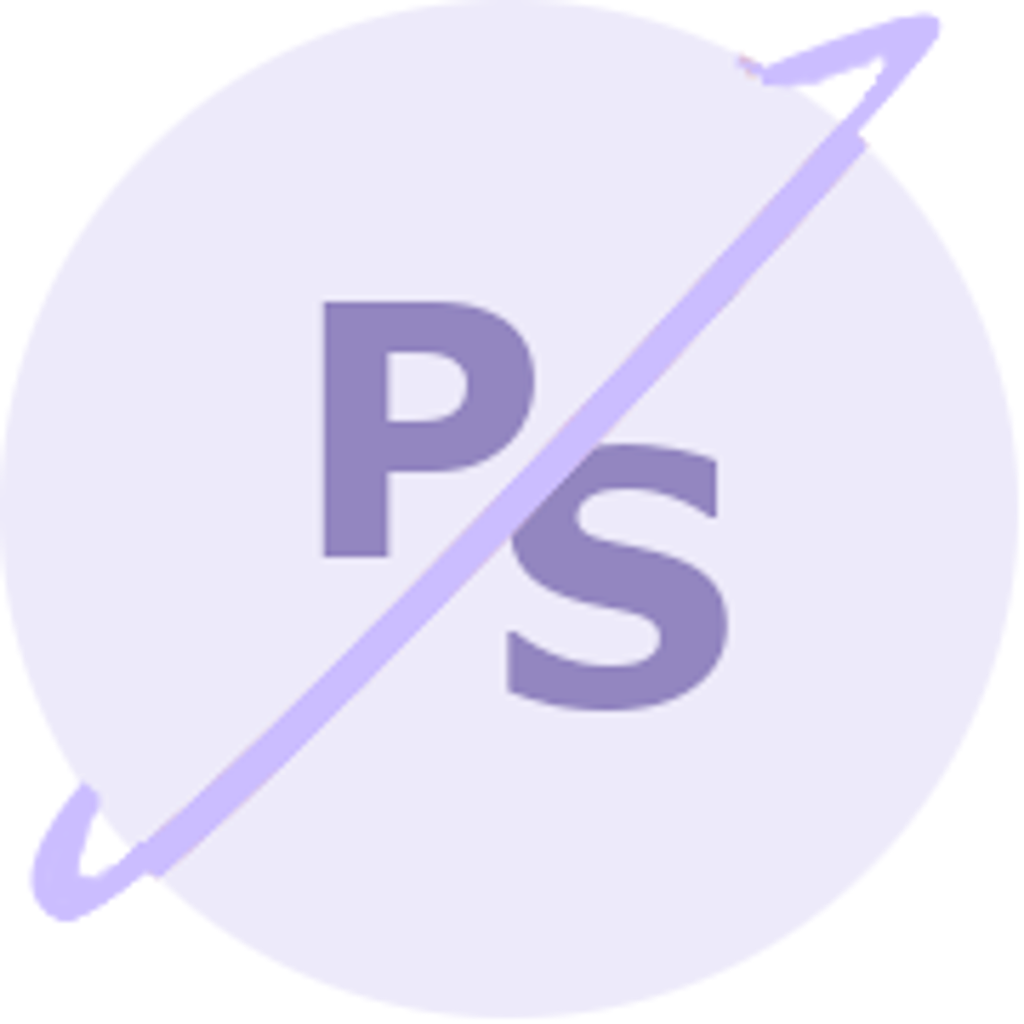
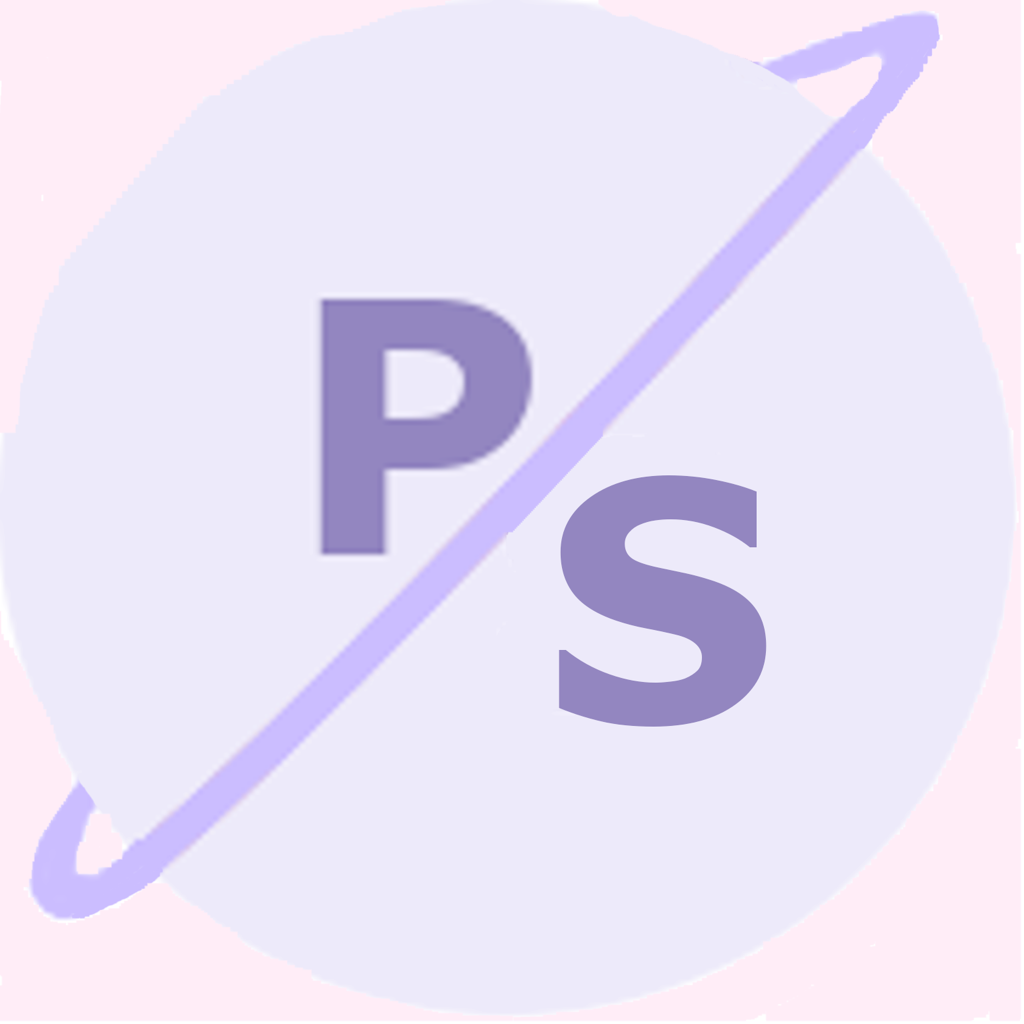
fix image requirements and plist for apple upload

diff --git a/playlistsharer-api/src/static/index.html b/playlistsharer-api/src/static/index.html
@@ -11,15 +11,17 @@
     
     <title>Playlist Sharer</title>
 </head>
-<body>
-    <div class="container" style="text-align: center;" >
-        <h1 class="display-4 secondary-text-color">Playlist Sharer</h1>
-        <h3 class="primary-text-color">A conversion service</h3>
-        <img src="./image/psicon-1024.png" class="w-25"/>
-        <p class="secondary-text-color">
-            A service that can help convert shared music between streaming platforms.
-            <br/> Currently supports Apple Music and Spotify Music.
-        </p>
+<body class="html-body">
+    <div class="base-container">
+        <div class="container text-center">
+            <h1 class="display-4 secondary-text-color">Playlist Sharer</h1>
+            <h3 class="primary-text-color">A music streaming conversion service</h3>
+            <img src="./image/psicon-1024.png" class="w-25"/>
+            <p class="secondary-text-color">
+                A service that can help convert shared music between streaming platforms.
+                <br/> Currently supports Apple Music and Spotify Music.
+            </p>
+        </div>
     </div>
 </body>
 </html>

diff --git a/playlistsharer-api/src/static/css/main.css b/playlistsharer-api/src/static/css/main.css
@@ -1,12 +1,18 @@
-:root {
-    --primary-color: '#D5CBFF';
-    --secondary-color: '#A49ACC';
-    --accent-color: '#F1EFFB';
-}
-
 .secondary-text-color {
     color: #A49ACC;
 }
 .primary-text-color {
     color: #D5CBFF;
+}
+
+.html-body {
+    background-color: #FFF1F9;
+}
+
+.base-container {
+    display: flex;
+    flex-direction: column;
+    height: 100vh;
+    justify-content: center;
+    align-items: center;
 }
